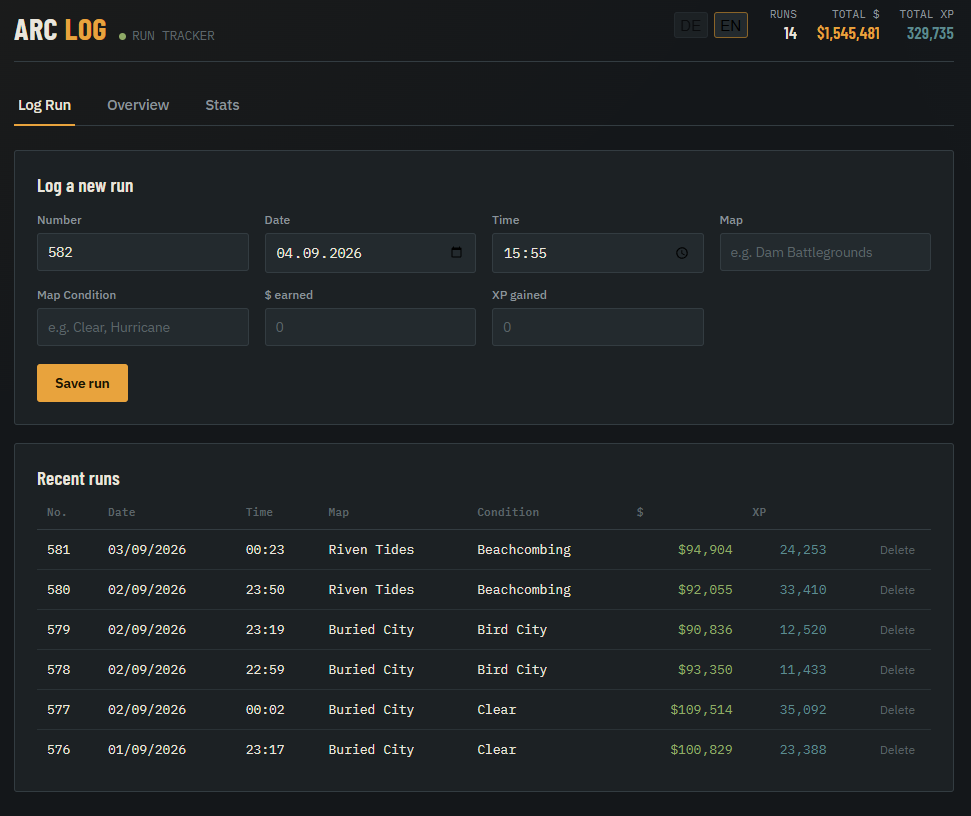
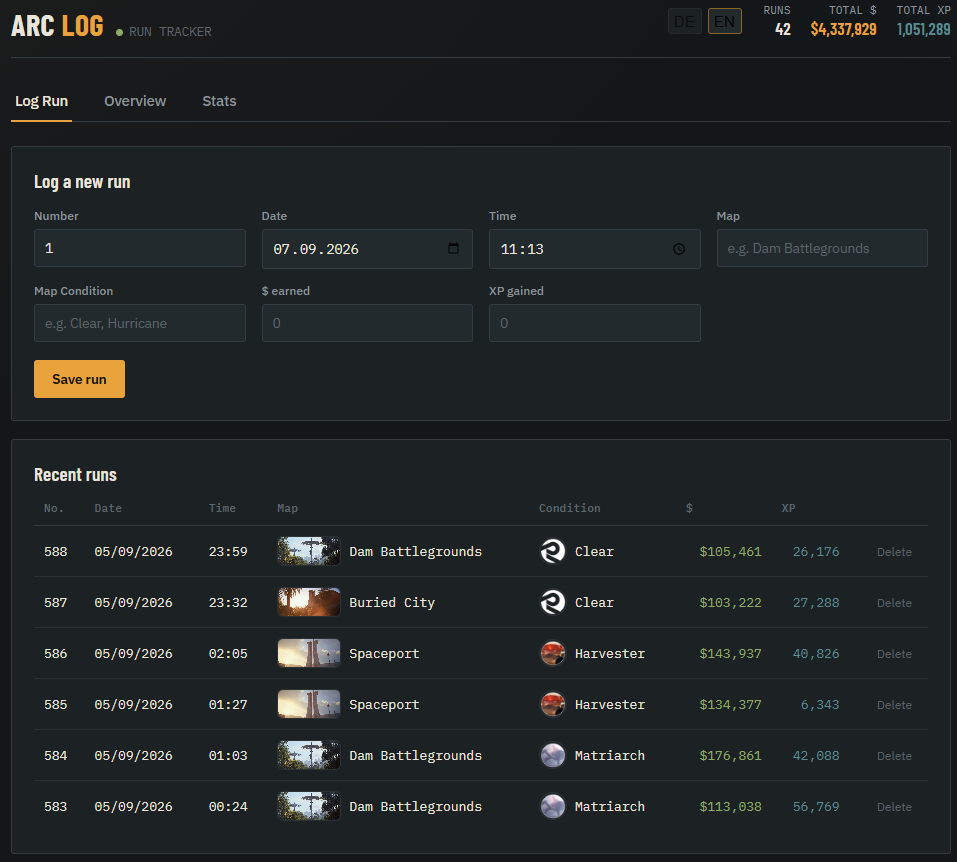
Update to include latest changes and screenshots

diff --git a/README.md b/README.md
@@ -43,10 +43,15 @@ cp .env.example .env
 arc-raiders-salvage-log/
 ├── docker-compose.yml
 ├── .env
+├── .env.example
+├── update.sh
 ├── api/
 │   ├── Dockerfile
 │   ├── package.json
 │   └── server.js
+├── images/
+│   ├── conditions/
+│   ├── maps/
 └── web/
     ├── Dockerfile
     ├── nginx.conf
@@ -54,6 +59,15 @@ arc-raiders-salvage-log/
 ```
 
 ## Quick Start
+
+### First start
+
+```bash
+chmod +x update.sh
+./update.sh
+```
+
+Or alternatively you can do it manually
 
 ```bash
 export APP_VERSION=$(git describe --tags --always)
@@ -78,10 +92,21 @@ docker compose exec db pg_dump -U arclog arclog > backup.sql
 
 ## Updating
 
+Execute the update script
 ```bash
-git pull
-export APP_VERSION=$(git describe --tags --always)
-docker compose up -d --build
+./update.sh
+```
+
+The script pulls the latest changes, determines the current version number based on the Git tag, and rebuilds the containers.
+
+## Versioning 
+
+The version number displayed in the footer is automatically derived from the current Git tag (`git describe --tags --always`) during the build process. To tag a new release:
+
+
+```bash
+git tag -a x.y.z -m "Description of the commit"
+git push origin x.y.z
 ```
 
 ## Features
